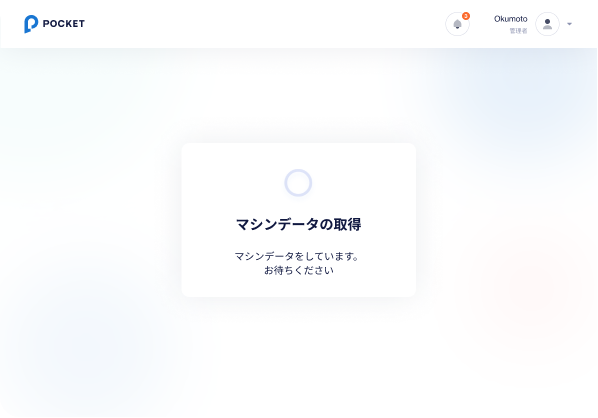
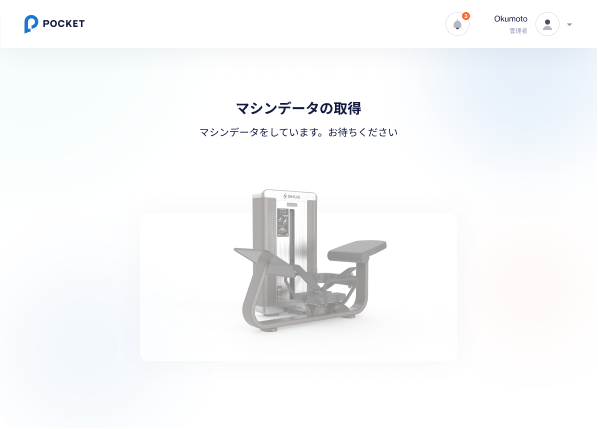
update 200,201

diff --git a/202.md b/202.md
@@ -99,15 +99,134 @@ INVALID PHONENUMBER OR PASSWORD
 
 ##### 不具合内容  `Issue detail`  **List of button**
 
+- list issue will be taken from the API
 - each button corresponds to an issue detail
-- 
+- When user tape the issue detail, it will call the API to send data to server and go to the **メンテナンス**   `Maintenance` screen
 
-##### ビデオを開く  `Open video`  **Button**
+### エラー一覧（Error List）
 
-- go to the **動画一覧**   `Video list` screen
+## **メンテナンス**   `Maintenance`
 
-##### タイマーを開始  `Start stop watch`  **Button**
+![nf](image/jp/tb/202kiosk_mode_operation/Issues.png)
 
-- go to the **ストップウォッチ**   `Stop watch` screen
+### 項目／イベント定義（Item Event Definition）
+
+##### ロゴ  `Logo`  **Icon button**
+
+- After tape continuously 7 times, then go to the **キオスクモード終了**   `Exit Kiosk mode` screen
+- need to tape continuously for 3s, if stop more than 3s, it will be counted from the beginning
+- if admin returns to dashboard screen from this screen, dashboard screen will be in maintenance mode
+
+##### 不具合内容  `Issue detail`  **Block**
+
+- display the issue that user has submitted
+
+### エラー一覧（Error List）
+
+## **ダッシュボード_メンテナンスモード**   `Dashboard maintenance mode`
+
+![nf](image/jp/tb/202kiosk_mode_operation/Maintenance.png)
+
+### 項目／イベント定義（Item Event Definition）
+
+##### 閉じる  `Close pop-up`  **Button**
+
+- Close the pop-up
+
+##### 修理完了  `Repair completed`  **Button**
+
+- enter Kiosk mode and go to **ホーム**  `Home` screen
+
+##### キオスクモード開始  `Enter Kiosk mode`  **Button**
+
+- If the pop-up is not closed, this button cannot be tape
+- Enter Kiosk mode and go to **ホーム**   `Home` screen
+
+##### マシン番号変更  ` Change sequence number`  **Button**
+
+- If the pop-up is not closed, this button cannot be tape
+- If the result returned by api has a sequence number, then display this sequence number
+- The sequence number must be unique
+- go to **マシンシーケンス番号入力**   `Enter machine sequence number` screen
+
+##### 削除する  ` Delete`  **Button**
+
+- If the pop-up is not closed, this button cannot be tape
+- go to **動画削除確認**   `Video delete confirmation` screen
+
+### エラー一覧（Error List）
+
+## **動画一覧**   `Video List`
+
+![nf](image/jp/tb/202kiosk_mode_operation/VideosList.png)
+
+### 項目／イベント定義（Item Event Definition）
+
+##### マシンに不具合があった場合はこちらをタップ  `Report machine issue`  **Button**
+
+- go to the **不具合報告**   `Report machine issue` screen
+
+##### 鍛える部位でトレーニングを選択する  `Back to video list`  **Icon Button**
+
+- back to the **動画一覧**   `Video list` screen
+
+##### 動画タッグリスト  `List video tags`  **Block**
+
+- show all tags of videos included in this screen
+- When user click on a tag, it will highlight that tag
+- the first tag is the tag that includes all videos. When clicking this tag will display all videos
+- When user click on other tags, the video of that tag will be displayed
+
+##### 動画一覧  `List video`  **Block**
+
+- show the downloaded videos of the selected machine
+
+##### 動画  `Video`  **Block**
+
+- dislay video thumbnail, duration, title, description, tags
+- When user clicks on a video, it will play that video in fullscreen
+
+#### 動画再生  `Play Video`  ** Button**
+
+- When user clicks on button, it will play that video in fullscreen
+
+### エラー一覧（Error List）
+
+## **動画再生中**   `Video playing in fullscreenVideo playing in fullscreen`
+
+![nf](image/jp/tb/202kiosk_mode_operation/VideoPlayfullscreen.png)
+![nf](image/jp/tb/202kiosk_mode_operation/Taponvideowhileplaying.png)
+![nf](image/jp/tb/202kiosk_mode_operation/OnVideoPlayCompleted.png)
+![nf](image/jp/tb/202kiosk_mode_operation/Chapters.png)
+
+### 項目／イベント定義（Item Event Definition）
+
+##### 動画フレーム  `Video Frame`  ** Frame**
+
+- when user tap on video frame then it will show all video related buttons. 
+
+##### 鍛える部位でトレーニングを選択する  `Back to video list`  **Icon Button**
+
+- back to the **動画一覧**   `Video list` screen
+
+##### 動画タッグリスト  `List video tags`  **Block**
+
+- show all tags of videos included in this screen
+- When user click on a tag, it will highlight that tag
+- the first tag is the tag that includes all videos. When clicking this tag will display all videos
+- When user click on other tags, the video of that tag will be displayed
+
+##### 動画一覧  `List video`  **Block**
+
+- show the downloaded videos of the selected machine
+
+##### 動画  `Video`  **Block**
+
+- dislay video thumbnail, duration, title, description, tags
+- When user clicks on a video, it will play that video in fullscreen
+
+#### 動画再生  `Play Video`  ** Button**
+
+- When user clicks on button, it will play that video in fullscreen
 
 ### エラー一覧（Error List）

diff --git a/201.md b/201.md
@@ -18,7 +18,7 @@
 
 - validate input info
 - disabled when input is empty
-- if response returns 200, then show fetching data loading pop-up and go to **マシン番号設定確認**   `Machine confirmation` screen when fetching data is done
+- if response returns 200, then go to machine fetching screen and go to **マシン番号設定確認**   `Machine confirmation` screen when fetching data is done
 
 ##### QRコードスキャン  `Scan QR code`  **Button icon**
 - show camera permission pop-up when there is no camera permission
@@ -72,13 +72,12 @@ INVALID QR CODE
 ## **マシン番号設定確認**  `Machine confirmation`
 
 ![nf](image/jp/tb/201setting_machine/MachineConfirmation.png)
-![nf](image/jp/tb/201setting_machine/Dowloading.png)
 
 ### 項目／イベント定義（Item Event Definition）
 
 ##### 設定する  `Setting`  **Button**
 
-- start downloading videos of the selected machine
+- go to **動画ダウンロード中**   `Dowloading video` screen and start downloading videos of the selected machine
 - show downloading pop-up when video is dowloading
 - when all video is finished downloading, go to **マシン設定成功**   `Successful setting` screen
 - if there is an error during the video download, go to **マシン設定失敗**   `Error` screen
@@ -89,37 +88,44 @@ INVALID QR CODE
 
 ### エラー一覧（Error List）
 
-## **マシン設定成功**   `Successful setting`
+## **動画ダウンロード中**   `Dowloading video`
 
-![nf](image/jp/tb/201setting_machine/Success.png)
-
-### 項目／イベント定義（Item Event Definition）
-
-##### 完了  ` Completed`  **Button**
-
-- go to **ダッシュボード**   `Dashboard`」 screen
-
-### エラー一覧（Error List）
-
-## **マシン設定失敗**   `Error`
-
-![nf](image/jp/tb/201setting_machine/Error.png)
+![nf](image/jp/tb/201setting_machine/downloadingvideos.png)
 
 ### 項目／イベント定義（Item Event Definition）
 
-##### 戻る  ` Back`  **Button**
+##### ダッシュボード  ` Dashboard`  **Button**
 
-- go to **マシン番号入力**   `Enter machine number` screen with an empty machine number input if no video is downloaded
-- go to **ダッシュボード**   `Dashboard` screen if at least 1 video is downloaded
+- go to **ダッシュボード**   `Dashboard`　screen
+
+##### ダウンロードした動画  ` Downloaded video`  ** Block**
+
+- Display downloaded video. The first video in the above image corresponds to the video already downloaded
+- inside this block, dislay video thumbnail, duration, title, description, tags of this video
+
+##### ダウンロードした動画  ` Downloading video`  ** Block**
+
+- Display downloading video. The second video in the above image corresponds to the downloading video
+- inside this block, dislay video thumbnail, duration, title, description, tags of this video
+
+##### 動画のダウンロード中にエラーが発生しました  ` error during video download`  ** Block**
+
+- If the video downloads normally, this block will not be displayed
+- If there is a error during video download, then this block will be displayed
+- tap the 再試行する button to download the faulty video again
 
 ### エラー一覧（Error List）
 
 ## **ダッシュボード**   `Dashboard`
 
-![nf](image/jp/tb/201setting_machine/Dashboardfirsttime.png)
-![nf](image/jp/tb/201setting_machine/Dashboardchangesequence.png)
+![nf](image/jp/tb/201setting_machine/dashboardNotYetSetNumber.png.png)
+![nf](image/jp/tb/201setting_machine/dashboardHasSetNumber.png)
 
 ### 項目／イベント定義（Item Event Definition）
+
+##### 戻る  `Back`  **Icon Button**
+
+- back to **動画ダウンロード中**   `Dowloading video` screen
 
 ##### キオスクモード開始  `Enter Kiosk mode`  **Button**
 
@@ -127,8 +133,8 @@ INVALID QR CODE
 
 ##### マシン番号変更  ` Change sequence number`  **Button**
 
-- If the result returned by api has a sequence number, then display this sequence number
-- The sequence number must be unique
+- If the result returned by api has a sequence number or sequence number is alrealdy set, then display this sequence number
+- The sequence number must be unique. If the sequence number is set on other device, then it will not be set again
 - go to **マシンシーケンス番号入力**   `Enter machine sequence number` screen
 
 ##### 削除する  ` Delete`  **Button**

diff --git a/200.md b/200.md
@@ -1,6 +1,6 @@
 # 【TB】 **ログイン機能**  `Login`  
 
-## **ログイン**  `Login`
+## **電話番号・メース入力**  `Enter tel／mail`
 
 ![nf](image\jp\tb\200login\Login.png)
 ![nf](image\jp\tb\200login\LoginError.png)
